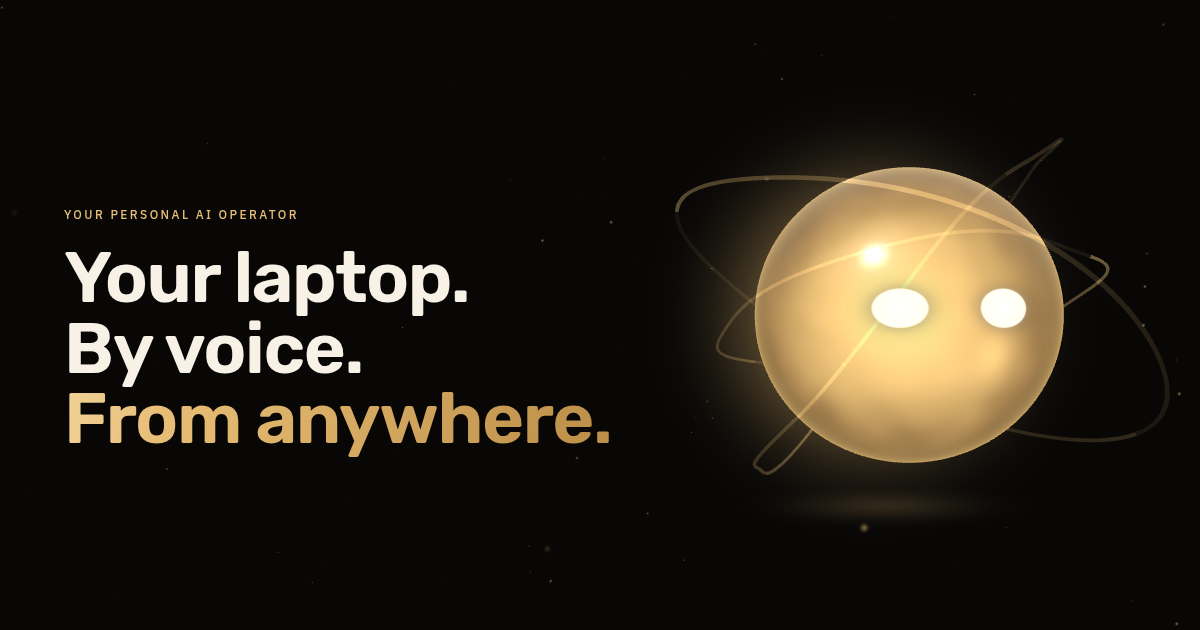
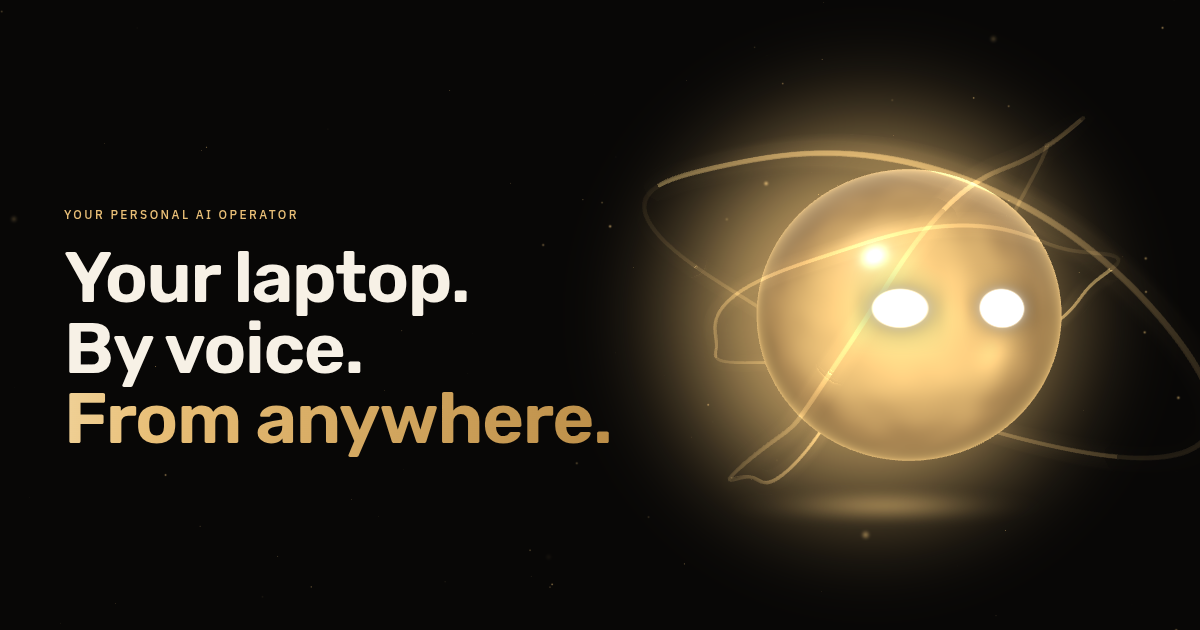
Website: bigger revolving waves and more glow on the JAS core
Rings are larger (radius 1.36-1.9) and ripple about twice as far, more with
the voice level. Each ring is drawn twice: a crisp line and a wide soft bloom
tube that fades toward its edges, so the waves glow. Wider, brighter halo and
light pool, stronger rim light and eye glow. Eye glow fades out before the edge
of its quad so no square outline shows. 22 Playwright tests pass.

Claude-Session: https://claude.ai/code/session_01Rs6becVRb2W6zS6Js1SngG

diff --git a/website/src/core/JasCore.tsx b/website/src/core/JasCore.tsx
@@ -107,7 +107,7 @@ const BODY_FRAG = /* glsl */ `
     col += vec3(1.0, 0.97, 0.9) * (pow(k, 120.0) * 1.1 + pow(k, 14.0) * 0.1);
     vec3 L2 = normalize(vec3(0.75, -0.4, 0.5));
     col += uRim * pow(max(dot(R, L2), 0.0), 36.0) * 0.35;
-    col += uRim * fres * uRimI * 0.85;                        // light caught at the edge
+    col += uRim * fres * uRimI * 1.1;                         // light caught at the edge
 
     gl_FragColor = vec4(col, 1.0);
     #include <colorspace_fragment>
@@ -154,7 +154,9 @@ const EYE_FRAG = /* glsl */ `
 
     float aa = 0.025;
     float body = smoothstep(aa, -aa, d);
-    float glow = exp(-max(d, 0.0) * 9.0) * 0.55;
+    float glow = exp(-max(d, 0.0) * 6.0) * 0.8;
+    // Fade the glow out before the edge of the quad, or the quad's square outline shows.
+    glow *= smoothstep(1.0, 0.7, max(abs(p.x), abs(p.y)));
     float centre = 1.0 - 0.18 * clamp(length(p) / max(r, 0.01), 0.0, 1.0);
     vec3 col = uColor * (body * centre * 1.15 + glow * 0.75);
     gl_FragColor = vec4(col, max(body, glow * 0.8));
@@ -165,7 +167,7 @@ const EYE_FRAG = /* glsl */ `
 /* A ring of light that ripples like a sound wave and revolves: the bright head leads a fading tail. */
 const WAVE_VERT = /* glsl */ `
   uniform float uTime; uniform float uAmp; uniform float uFreq; uniform float uPhase; uniform float uSpeed;
-  varying float vA;
+  varying float vA; varying float vFacing;
   void main() {
     vec3 p = position;
     float a = atan(p.y, p.x);
@@ -174,17 +176,20 @@ const WAVE_VERT = /* glsl */ `
     p.xy *= 1.0 + uAmp * w;
     p.z += uAmp * 0.7 * cos(a * (uFreq * 0.5) + uTime * uSpeed * 2.0 + uPhase);
     vA = a;
-    gl_Position = projectionMatrix * modelViewMatrix * vec4(p, 1.0);
+    vec4 mv = modelViewMatrix * vec4(p, 1.0);
+    vFacing = abs(dot(normalize(normalMatrix * normal), normalize(-mv.xyz)));
+    gl_Position = projectionMatrix * mv;
   }
 `;
 const WAVE_FRAG = /* glsl */ `
   uniform vec3 uColor; uniform float uOpacity; uniform float uTime; uniform float uRot; uniform float uPhase;
-  varying float vA;
+  uniform float uSoft; // 0 = crisp line, higher = softer glow that fades toward the tube's edges
+  varying float vA; varying float vFacing;
   void main() {
     float u = fract(vA / 6.2831853 + 0.5 - uTime * uRot + uPhase * 0.1);
     float head = pow(u, 2.6);
     float head2 = pow(fract(u + 0.5), 2.6) * 0.55;
-    float a = (0.12 + 0.88 * max(head, head2)) * uOpacity;
+    float a = (0.12 + 0.88 * max(head, head2)) * uOpacity * pow(vFacing, uSoft);
     gl_FragColor = vec4(uColor * (0.8 + 0.6 * head), a);
     #include <colorspace_fragment>
   }
@@ -222,9 +227,9 @@ const EYE_QUAD = 0.62; // world size of each eye's quad (shape + glow)
  *  Frequencies must be even so every harmonic in WAVE_VERT is a whole number: an odd or fractional
  *  one breaks the ring where the angle wraps from +pi to -pi. */
 const WAVES: [number, [number, number, number], number, number, number][] = [
-  [1.3, [1.2, 0.0, 0.35], 6, 0.0, 0.11],
-  [1.5, [0.95, 0.65, -0.5], 8, 2.1, -0.08],
-  [1.7, [1.45, -0.55, 0.9], 4, 4.2, 0.06],
+  [1.36, [1.2, 0.0, 0.35], 6, 0.0, 0.11],
+  [1.62, [0.95, 0.65, -0.5], 8, 2.1, -0.08],
+  [1.9, [1.45, -0.55, 0.9], 4, 4.2, 0.06],
 ];
 
 interface JasCoreProps {
@@ -279,8 +284,8 @@ export function JasCore({ state, levelRef, reduced = false }: JasCoreProps) {
       ),
     [],
   );
-  const waveMats = useMemo(
-    () =>
+  // Each ring is drawn twice: a crisp line, and a wide soft tube around it that reads as glow.
+  const makeWaveMats = (soft: number) =>
       WAVES.map(
         ([, , freq, phase, rot]) =>
           new ShaderMaterial({
@@ -289,14 +294,15 @@ export function JasCore({ state, levelRef, reduced = false }: JasCoreProps) {
             uniforms: {
               uTime: { value: 0 }, uAmp: { value: 0 }, uFreq: { value: freq }, uPhase: { value: phase },
               uSpeed: { value: 0 }, uColor: { value: new Color() }, uOpacity: { value: 0 }, uRot: { value: rot },
+              uSoft: { value: soft },
             },
             transparent: true,
             depthWrite: false,
             blending: AdditiveBlending,
           }),
-      ),
-    [],
-  );
+      );
+  const waveMats = useMemo(() => makeWaveMats(0.3), []);
+  const bloomMats = useMemo(() => makeWaveMats(2.2), []);
   const orbitGeo = useMemo(() => {
     const n = 140;
     const g = new Float32Array(n * 3);
@@ -392,9 +398,9 @@ export function JasCore({ state, levelRef, reduced = false }: JasCoreProps) {
     bu.uTime.value = t;
     bu.uPulse.value = voice * 0.35 + confirmPulse * 0.12;
     halo.uniforms.uColor.value.copy(c.halo);
-    halo.uniforms.uI.value = c.haloI * (1 + voice * 0.45 + confirmPulse * 0.25);
+    halo.uniforms.uI.value = c.haloI * (1.25 + voice * 0.55 + confirmPulse * 0.3);
     pool.uniforms.uColor.value.copy(c.halo);
-    pool.uniforms.uI.value = c.haloI * 0.32;
+    pool.uniforms.uI.value = c.haloI * 0.5;
 
     // --- gaze: the face turns toward the pointer, blended with the state's own direction ---
     const follow = reduced ? 0 : c.follow;
@@ -422,14 +428,17 @@ export function JasCore({ state, levelRef, reduced = false }: JasCoreProps) {
     }
 
     // --- revolving wave rings ---
-    const amp = c.waveAmp * (1 + voice * 2.2);
+    const amp = c.waveAmp * (1 + voice * 2.4);
     for (let i = 0; i < waveMats.length; i++) {
-      const u = waveMats[i].uniforms;
-      u.uTime.value = t;
-      u.uAmp.value = amp;
-      u.uSpeed.value = c.waveSpeed;
-      u.uOpacity.value = c.waves * (0.55 + voice * 0.45) * (i === 0 ? 1 : 0.8);
-      u.uColor.value.copy(c.rim);
+      const opacity = c.waves * (0.8 + voice * 0.4) * (i === 0 ? 1 : 0.85);
+      for (const [mats, mul] of [[waveMats, 1], [bloomMats, 0.32]] as const) {
+        const u = mats[i].uniforms;
+        u.uTime.value = t;
+        u.uAmp.value = amp;
+        u.uSpeed.value = c.waveSpeed;
+        u.uOpacity.value = opacity * mul;
+        u.uColor.value.copy(c.rim);
+      }
     }
     if (waveGroup.current) waveGroup.current.rotation.y = reduced ? 0 : t * 0.05;
 
@@ -465,7 +474,7 @@ export function JasCore({ state, levelRef, reduced = false }: JasCoreProps) {
   return (
     <group>
       <mesh position={[0, 0, -0.8]} renderOrder={-2} material={halo}>
-        <planeGeometry args={[4, 4]} />
+        <planeGeometry args={[5.4, 5.4]} />
       </mesh>
       {/* a pool of light beneath the core grounds it in space */}
       <mesh position={[0, -1.42, -0.4]} scale={[2.8, 0.42, 1]} renderOrder={-1} material={pool}>
@@ -475,9 +484,14 @@ export function JasCore({ state, levelRef, reduced = false }: JasCoreProps) {
       {/* revolving wave rings; depth-tested so the far side passes behind the glass */}
       <group ref={waveGroup}>
         {WAVES.map(([radius, tilt], i) => (
-          <mesh key={i} scale={radius} rotation={tilt} material={waveMats[i]} renderOrder={5}>
-            <torusGeometry args={[1, 0.008, 6, 320]} />
-          </mesh>
+          <group key={i} scale={radius} rotation={tilt}>
+            <mesh material={waveMats[i]} renderOrder={5}>
+              <torusGeometry args={[1, 0.009, 6, 320]} />
+            </mesh>
+            <mesh material={bloomMats[i]} renderOrder={4}>
+              <torusGeometry args={[1, 0.06, 10, 320]} />
+            </mesh>
+          </group>
         ))}
       </group>
 

diff --git a/website/src/core/states.ts b/website/src/core/states.ts
@@ -60,7 +60,7 @@ const base: Look = {
   rim: T.sun,
   halo: T.sun,
   eye: mix(T.ink, T.sun, 0.25),
-  haloI: 0.45,
+  haloI: 0.6,
   rimI: 0.9,
   glow: 1.15,
   open: 0.72,
@@ -75,7 +75,7 @@ const base: Look = {
   pulseAmp: 0,
   pulsePeriod: 3,
   waves: 0.75,
-  waveAmp: 0.035,
+  waveAmp: 0.07,
   waveSpeed: 0.35,
   orbit: 0,
   arc: 0,
@@ -91,7 +91,7 @@ export const LOOKS: Record<CoreState, Look> = {
   // brighter, eyes wide, the rings ripple with your voice
   listening: L({
     core: mix(T.sun, T.ink, 0.35),
-    haloI: 0.9,
+    haloI: 1.1,
     rimI: 1.2,
     glow: 1.3,
     open: 1.05,
@@ -99,7 +99,7 @@ export const LOOKS: Record<CoreState, Look> = {
     eye: mix(T.ink, T.sun, 0.08),
     breathAmp: 0.012,
     waves: 1,
-    waveAmp: 0.075,
+    waveAmp: 0.13,
     waveSpeed: 1.0,
   }),
   // light dims, eyes look up and away, particles orbit
@@ -154,7 +154,7 @@ export const LOOKS: Record<CoreState, Look> = {
     pulseAmp: 0.05,
     pulsePeriod: 2.8,
     waves: 0.7,
-    waveAmp: 0.04,
+    waveAmp: 0.075,
     waveSpeed: 0.5,
   }),
   // light and rings pulse with its own voice
@@ -167,7 +167,7 @@ export const LOOKS: Record<CoreState, Look> = {
     breathAmp: 0.01,
     pulseAmp: 1,
     waves: 1,
-    waveAmp: 0.06,
+    waveAmp: 0.11,
     waveSpeed: 0.9,
   }),
   // green-gold, happy eyes, one clean ring (JasCore returns to standby after 1.6 s)
@@ -203,7 +203,7 @@ export const LOOKS: Record<CoreState, Look> = {
     breathAmp: 0.006,
     breathPeriod: 3,
     waves: 0.65,
-    waveAmp: 0.055,
+    waveAmp: 0.1,
     waveSpeed: 1.5,
   }),
   // light almost out, eyes closed, rings still, one steady dot

diff --git a/JARVIS.md b/JARVIS.md
@@ -515,6 +515,6 @@ Each major decision is recorded here: **context → options → decision → con
 | ADR-088 | 2026-09-30 | JAS can share an existing Google Drive file by voice - `share_file`, built on the three rules from ADR-087, not despite them. Full `drive` scope was needed rather than the narrower `drive.file`: sharing means finding a document the user already has, by name, among files JAS did not create, and `drive.file` cannot see those at all. Two things keep that breadth from becoming a problem in practice. (1) `app/google/drive.py`'s `find` asks Drive for `fields=... name, modifiedTime, webViewLink` only - never a field that would return the file's content, matching rule 12 exactly, and proven by a test asserting the exact fields string requested. (2) Ambiguity is never guessed through: two files matching "Report" returns both names and shares nothing, because sharing the wrong document with an outside person is a real mistake in a way that, say, opening the wrong app is not - contrast with `find_on_screen`'s vision search, which is allowed to just be wrong sometimes. `share_file` is MEDIUM risk like every other Google action tool, asking exactly what will happen before it happens. The scope change means every existing Google token needs a fresh consent screen; the token was independently already expired (unrelated "invalid_grant"), so this piggybacks on a re-login the user needed anyway rather than forcing a second one. Manual test in `tests/manual/google.md`. 7 new tests | Accepted |
 | ADR-089 | 2026-10-04 | Marketing website lives in `website/` as a separate Vite + React + TypeScript app (Tailwind v4 tokens from JAS-Frontend-Spec §4, React Three Fiber for the core, GSAP ScrollTrigger for the scroll story, Framer Motion for UI). One fixed full-viewport WebGL canvas holds a single core for the whole page; sections tell a tiny store (`story/director.ts`) which state and anchor they want, demos override it while running. The core is a custom shader sphere rather than a Spline scene or video: real-time states, ~250 kB gzipped, lazy-loaded after first paint, drei `PerformanceMonitor` drops resolution and then falls back to a 2D SVG core if fps stays low. Fonts self-hosted, no trackers, no third-party requests (tested). Demos are labelled simulated; scenario personas are labelled illustrative; every capability claim comes from the client documentation. Higgsfield was the intended source for cinematic stills/loops, but the account has 0 credits - the hero has an optional `HERO_LOOP_SRC` slot for when it does | Accepted |
 | ADR-090 | 2026-10-04 | Website palette changed at the user's request from spec §4 (navy/teal) to luxury black and champagne gold, with no blue anywhere: bg `#080706`, coal `#17130F`, ivory `#F7F1E6`, gold `#E8BE76`, ember `#E2553F`, green-gold success `#A8CF78`, warm grey `#A69C8D` (blue is the weakest channel in every token). Applies to `website/` only; the desktop app and the spec are unchanged. Added 3D: gold dust field with depth parallax, gold gyroscope rings around the core in standby, a materialise entrance, 3D tilt cards with a gold sheen, and a 'Not Siri. Not Gemini. Just JAS.' section of 3D flip cards. The roast uses generic caricatures of phone assistants (no quotes attributed to any product), only documented JAS capabilities, and discloses that JAS itself may use Gemini or Claude for the decision step | Accepted |
-| ADR-091 | 2026-10-05 | Website core redesigned at the user's request to look more real: a smoked-glass sphere with light swirling inside (3D simplex noise), studio reflections and an edge rim; two round glowing eyes with no pupils, drawn as signed-distance shapes so expression comes from lid shape (cross, worried), blink and happy arcs instead of pupils and brows; three rings of light that ripple like sound waves and revolve around the core, their amplitude following the voice level; a pool of light beneath it. The 2D fallback was updated to match. All still one draw-cheap custom shader set, no post-processing, so it stays within the mobile budget | Accepted |
+| ADR-091 | 2026-10-05 | Website core redesigned at the user's request to look more real: a smoked-glass sphere with light swirling inside (3D simplex noise), studio reflections and an edge rim; two round glowing eyes with no pupils, drawn as signed-distance shapes so expression comes from lid shape (cross, worried), blink and happy arcs instead of pupils and brows; three rings of light that ripple like sound waves and revolve around the core, their amplitude following the voice level; a pool of light beneath it. The 2D fallback was updated to match. Follow-up the same day: bigger rings (radius 1.36-1.9, ripple about twice as deep) each drawn twice, a crisp line plus a wide soft bloom tube that fades toward its edges; wider, brighter halo and eye glow. All still one draw-cheap custom shader set, no post-processing, so it stays within the mobile budget | Accepted |
 | ADR-055 | 2026-09-23 | JAS answers in whichever of two voices is closer to the pitch of whoever just spoke (`en_GB-alan-medium` and `en_GB-jenny_dioco-medium`, the second loaded lazily to save RAM). `app/voice/pitch.py` measures the median fundamental by autocorrelation over the voiced frames; above 183 Hz it picks the higher voice, below 147 Hz the lower, and in the 36 Hz band between it keeps whatever is already in use so one ambiguous sentence cannot flip the voice mid-conversation. It needs a quarter-second of voiced speech before deciding. This measures pitch, not identity - voices do not divide neatly and the cost of being wrong is only a wrong voice, so it is a hint and `VOICE_MATCHES_SPEAKER=false` turns it off | Accepted |
 | ADR-012 | 2026-09-22 | Voice turn runs in `VoicePipeline` on its own thread; every step uses `transition_from` so pause/cancel mid-turn aborts cleanly. Responder is a pluggable `str -> str` (echo in Phase 3, LLM in Phase 4) | Accepted |
